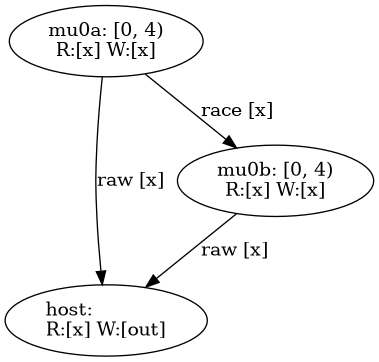
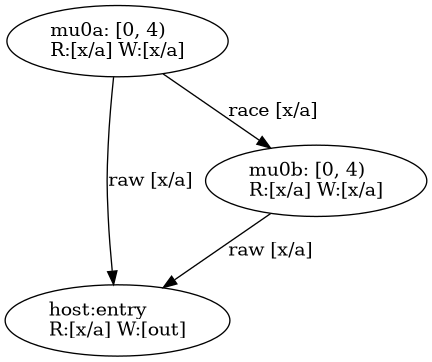
graphs: region labels name their aliases (x/a)
Observed: parallel_carry showed W:[x] while the source never writes a
variable named x — the write flows through the alias a created by
init_values=(x,). Region labels contradicted the source they were
extracted from.

Red-demonstrated on the parent commit ('the write to x flows through
the alias a; labels must say so'). Regions now track every SSA name
they are reachable under and display as x/a (edges included:
race [x/a]). Also restores the host node's function name.

diff --git a/crates/symir/src/interp.rs b/crates/symir/src/interp.rs
@@ -237,7 +237,7 @@ impl<'a> Interp<'a> {
                 Dir::Scalar => self.fresh_named(format!("param.{}", param.name)),
                 _ => SymVal::Region(self.fresh_region(&param.name)),
             };
-            let _ = self.env.insert(param.name.clone(), value);
+            self.bind(&param.name, value);
         }
         // Module-level constants: `NAME = pl.dynamic("NAME")` becomes a
         // symbolic dimension constant named by its string argument.
@@ -262,8 +262,26 @@ impl<'a> Interp<'a> {
     fn fresh_region(&mut self, name: &str) -> RegionId {
         let id = self.region_counter;
         self.region_counter += 1;
-        self.dag.regions.push(name.to_owned());
+        self.dag.regions.push(crate::dag::RegionMeta {
+            name: name.to_owned(),
+            aliases: Vec::new(),
+        });
         id
+    }
+
+    /// Binds `name` in the environment, recording region aliases: every
+    /// SSA name a region is reachable under appears in its label, so a
+    /// write through a carried alias (`init_values=(x,)` → `a`) shows as
+    /// `x/a` rather than contradicting the source.
+    fn bind(&mut self, name: &str, value: SymVal) {
+        if let SymVal::Region(region) = &value {
+            if let Some(meta) = self.dag.regions.get_mut(*region) {
+                if meta.name != name && !meta.aliases.iter().any(|a| a == name) {
+                    meta.aliases.push(name.to_owned());
+                }
+            }
+        }
+        let _ = self.env.insert(name.to_owned(), value);
     }
 
     /// A named uninterpreted constant (no arguments).
@@ -370,12 +388,12 @@ impl<'a> Interp<'a> {
     fn bind_targets(&mut self, targets: &[String], value: SymVal) -> Result<(), SymirError> {
         match (targets, &value) {
             ([single], _) => {
-                let _ = self.env.insert(single.clone(), value);
+                self.bind(single, value);
                 Ok(())
             }
             (_, SymVal::Tuple(items)) if targets.len() == items.len() => {
                 for (name, item) in targets.iter().zip(items.iter()) {
-                    let _ = self.env.insert(name.clone(), item.clone());
+                    self.bind(name, item.clone());
                 }
                 Ok(())
             }
@@ -489,7 +507,7 @@ impl<'a> Interp<'a> {
         }
         let init_values = self.init_values(kwargs)?;
         for (name, init) in iter_arg_vars.iter().zip(init_values) {
-            let _ = self.env.insert(name.clone(), init);
+            self.bind(name, init);
         }
 
         let outer_writers = self.frame_writers();
@@ -555,7 +573,12 @@ impl<'a> Interp<'a> {
         if parallel {
             for region in inner_writers.keys() {
                 if inner_readers.contains_key(region) {
-                    let name = self.dag.regions.get(*region).cloned().unwrap_or_default();
+                    let name = self
+                        .dag
+                        .regions
+                        .get(*region)
+                        .map(|m| m.display())
+                        .unwrap_or_default();
                     let mut roles = nodes.iter();
                     if let (Some(first), Some(second)) = (roles.next(), roles.last()) {
                         self.add_edge(*first, *second, EdgeKind::Race, vec![*region]);
@@ -958,7 +981,7 @@ impl<'a> Interp<'a> {
         let saved_env = self.env.clone();
         for (param, arg) in params.iter().zip(payload.iter()) {
             let value = self.eval(arg)?;
-            let _ = self.env.insert(param.name.clone(), value);
+            self.bind(&param.name, value);
         }
         self.exec_block(&body)?;
         // The return expression (if any) is evaluated in the inline scope.

diff --git a/crates/symir/src/dag.rs b/crates/symir/src/dag.rs
@@ -33,8 +33,30 @@ pub struct TaskDag {
     pub constraints: Vec<Constraint>,
     /// Race-shaped findings.
     pub warnings: Vec<Warning>,
-    /// Region names, indexed by id.
-    pub regions: Vec<String>,
+    /// Region metadata, indexed by id.
+    pub regions: Vec<RegionMeta>,
+}
+
+/// One region's naming: the origin (the parameter or allocation that
+/// created it) plus every SSA alias it became reachable under (e.g. a
+/// carried value seeded by `init_values=(x,)`).
+#[derive(Debug, Clone, Serialize)]
+pub struct RegionMeta {
+    /// Name of the creating binding.
+    pub name: String,
+    /// Other names bound to this region, sorted.
+    pub aliases: Vec<String>,
+}
+
+impl RegionMeta {
+    /// The display form: `x` alone, or `x/a` when aliased.
+    pub fn display(&self) -> String {
+        if self.aliases.is_empty() {
+            return self.name.clone();
+        }
+        let joined = self.aliases.join(consts::SEP_ALIAS);
+        format!("{}{}{}", self.name, consts::SEP_ALIAS, joined)
+    }
 }
 
 /// What a node represents.

diff --git a/crates/symir/src/graph.rs b/crates/symir/src/graph.rs
@@ -32,10 +32,7 @@ pub fn build(dag: &TaskDag) -> TaskGraph {
     let mut graph = Graph::new();
     let mut indices = Vec::new();
     for node in &dag.nodes {
-        let header = match node.kind {
-            crate::dag::NodeKind::Host => consts::GRAPH_KIND_HOST.to_owned(),
-            _ => node.label.clone(),
-        };
+        let header = node.label.clone();
         let reads = region_list(dag, &node.reads.iter().copied().collect::<Vec<_>>());
         let writes = region_list(dag, &node.writes.iter().copied().collect::<Vec<_>>());
         let iters = node
@@ -155,7 +152,7 @@ fn region_list(dag: &TaskDag, regions: &[usize]) -> String {
         .map(|r| {
             dag.regions
                 .get(*r)
-                .cloned()
+                .map(|m| m.display())
                 .unwrap_or_else(|| format!("R{r}"))
         })
         .collect::<Vec<_>>()

diff --git a/crates/symir/tests/graph.rs b/crates/symir/tests/graph.rs
@@ -125,3 +125,18 @@ fn consts_backslash_n() -> &'static str {
 fn node_count_with_effects(dot: &str) -> usize {
     dot.split('\n').filter(|l| l.contains("R:[")).count()
 }
+
+/// Observed 2026-10-16: `parallel_carry` shows `W:[x]`, but the source
+/// never writes a variable named `x` — the write flows through the alias
+/// `a` created by `init_values=(x,)`. Region labels must name the aliases
+/// a region is reachable under (`x/a`), or the graph contradicts the
+/// source it was extracted from.
+#[test]
+fn region_labels_show_alias_names() {
+    let dag = extract(PARALLEL_CARRY, None).unwrap();
+    let dot = graph::build(&dag).to_dot(&dag.program);
+    assert!(
+        dot.contains("x/a"),
+        "the write to x flows through the alias a; labels must say so"
+    );
+}

diff --git a/crates/symir/src/consts.rs b/crates/symir/src/consts.rs
@@ -182,6 +182,8 @@ pub const GRAPH_KIND_HOST: &str = "host:";
 pub const BACKSLASH_N: &str = "\\n";
 /// A real newline inside graphviz labels.
 pub const LABEL_NEWLINE: &str = "\n";
+/// Separator between a region's origin name and its aliases.
+pub const SEP_ALIAS: &str = "/";
 /// Guard separator in node labels.
 pub const SEP_GUARD: &str = " && ";
 /// Edge tags.
